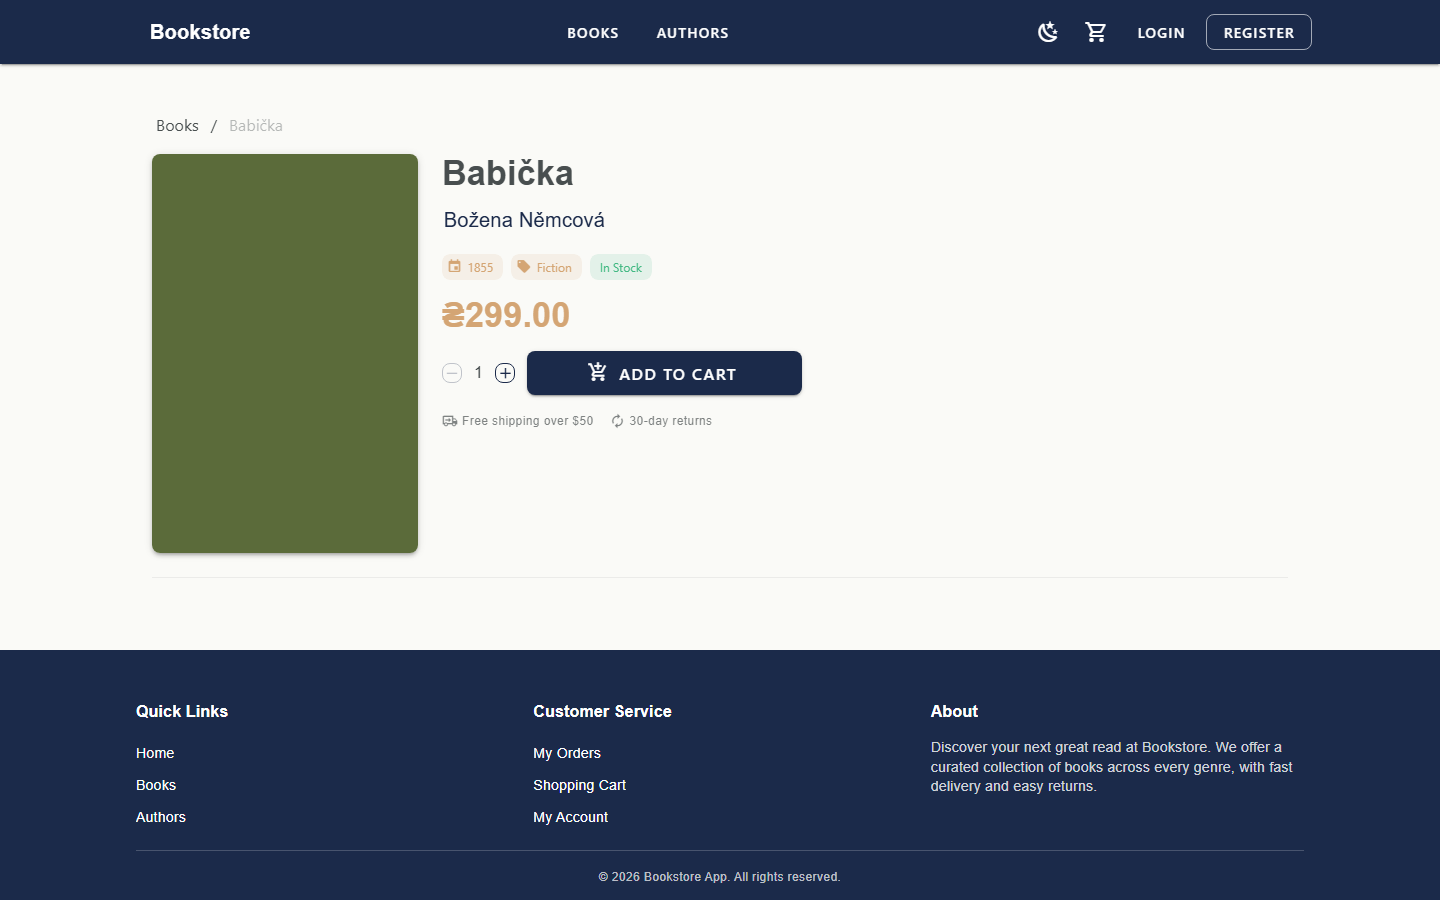
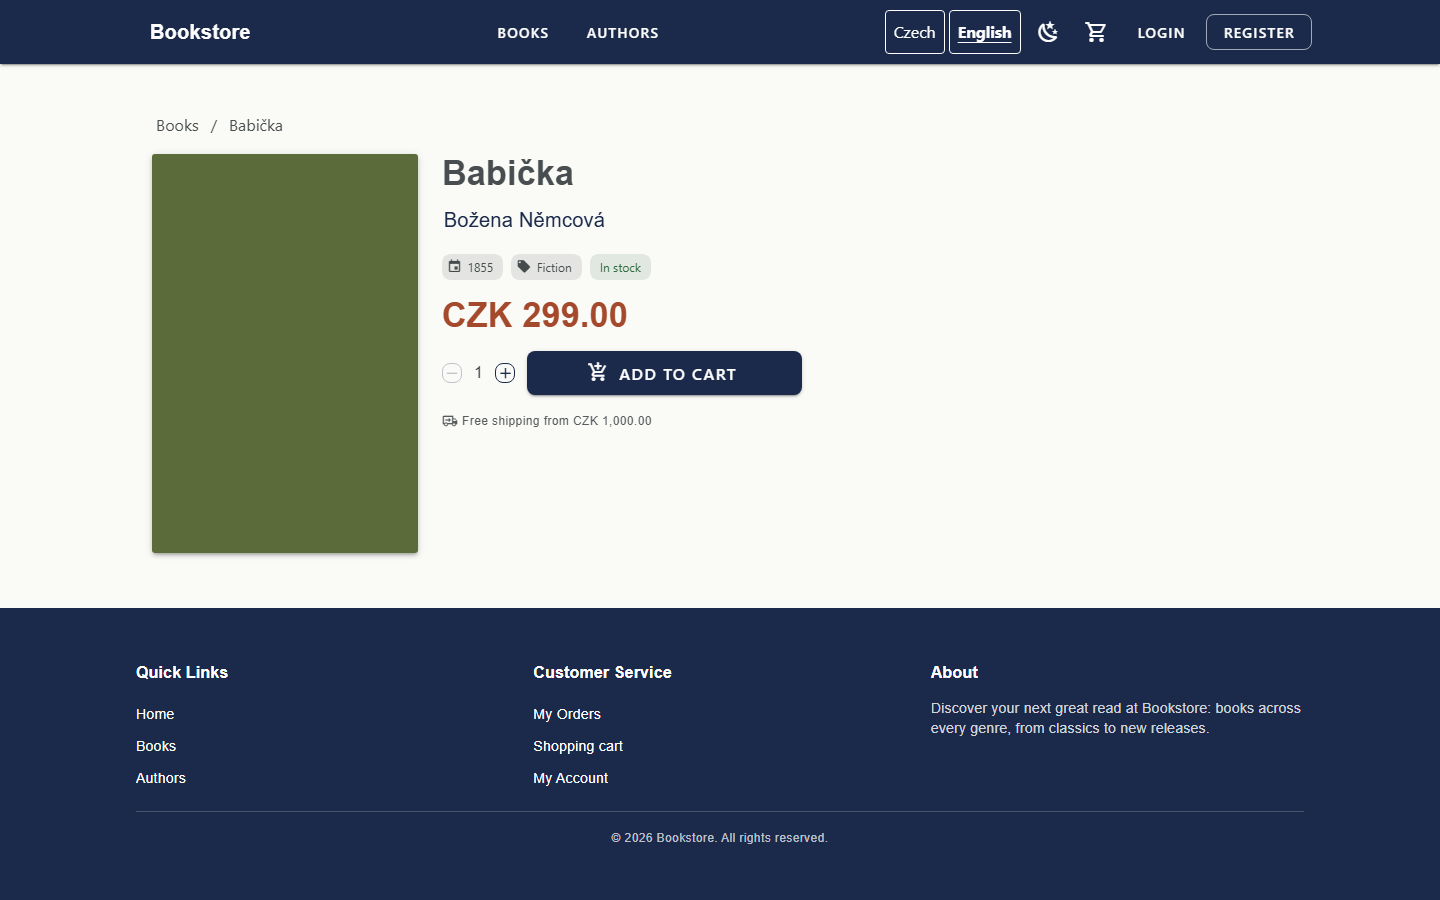
docs: describe the catalogue's address, the book read contract and the tokens

diff --git a/docs/architecture.md b/docs/architecture.md
@@ -97,27 +97,34 @@ Six Mongoose models live in `backend/models/`. All but `Counter` have `createdAt
 
 How the catalogue page gets its books, from the browser to MongoDB and back:
 
-1. On `/books` the router renders `BooksView`. Its `BookList` component (`components/features/books`) calls
-   `loadBooks()` of the books store when it mounts.
-2. The store calls `booksApi.fetchAll()` with `page` and `limit`, plus the search text and filters when they are set.
+1. On `/books` the router renders `BooksView`. Its `BookList` component (`components/features/books`) reads the page,
+   the search and the category from the address (`router/catalogQuery.js`) and asks the books store for that page
+   whenever the address changes. Paging and choosing a category change the address first, so Back, a reload and a
+   shared link show the same list.
+2. The store calls `booksApi.fetchAll()` with `page`, `limit` (12) and the search and the category when they are set.
+   It keeps only the answer of its latest request, so a quick Back or typing never shows an older list.
 3. `booksApi` sends the request through the shared Axios instance in `services/api/baseApi.js`. Its base URL is
-   `/api/v1`, so the browser asks the origin that served the page for `GET /api/v1/books?page=1&limit=12`.
+   `/api/v1`, so the browser asks the origin that served the page for `GET /api/v1/books?page=2&limit=12`.
 4. The Vite server forwards `/api` to the API at `API_PROXY_TARGET` (default `http://localhost:3000`): the dev server
    on port 8080 in development, the preview server on port 4173 in a preview.
 5. Express runs the global middleware (Helmet, CORS, body parsing, request logging). The `/api/v1` router hands the
-   request to `routes/books.js`, where `GET /` is public and calls `bookController.getBooks` through `asyncHandler`.
-6. The controller passes the parsed query (`req.query`) to `bookService.getBooks()`.
-7. The service checks `page` and `limit` (at most 100) and builds the filter. It runs two queries at once: `Book.find()`
-   with the author's first and last name populated, newest first, skipped and limited to the requested page, and
-   `Book.countDocuments()` for the total.
+   request to `routes/books.js`, where `GET /` is public. `validate({ query: listBooksQuery })` checks the query first:
+   an unknown parameter, a page below 1, a limit above 100, a sort outside the list or a value sent twice or as an
+   object answers 400 `VALIDATION_FAILED`.
+6. The controller passes the parsed query (`req.valid.query`) to `bookService.getBooks()`.
+7. The service builds the filter: the category and the author match as whole values, the search matches part of the
+   title or the description as plain text. It runs two queries at once: `Book.find()` with the author's first and last
+   name populated, newest first with `_id` breaking ties (so no book shows on two pages), skipped and limited to the
+   requested page, and `Book.countDocuments()` for the total.
 8. Mongoose sends both queries to MongoDB and returns the documents as plain objects (`lean()`).
-9. The controller answers 200 with `{ success: true, data, pagination }`: `data` is the list of books, `pagination`
-   holds `page`, `limit`, `total`, `pages`, `hasNext` and `hasPrev`. The request logger prints
+9. `services/bookView.js` turns each document into the book view (`id`, no `_id` or `__v`, the author as
+   `{ id, firstName, lastName }`), and the controller answers 200 with `{ success: true, data, pagination }`:
+   `pagination` holds `page`, `limit`, `total` and `pages`. The request logger prints
    `GET /api/v1/books 200 <duration>ms`.
-10. The store keeps the books, and `BookList` renders them as cards.
+10. The store keeps the books and the server's pagination, and `BookList` renders the cards, the count and the pager.
 
-If any step throws, for example because `limit` is above 100, `asyncHandler` passes the error to the error handler,
-which answers `{ success: false, error: { code, message } }` with the matching status.
+If the query is invalid or any step throws, the error handler answers `{ success: false, error: { code, message } }`
+with the matching status, and the catalogue shows the translated message with Try again.
 
 ## Frontend
 
@@ -131,14 +138,22 @@ the three plugins.
   the user to the login page, the home page or the "access denied" page as the policy requires. The login page gets
   the way back in `?redirect`; after signing in, `redirect.js` opens it only if it is a path to a page of this app,
   and opens it in the current language, otherwise the home page. The API checks every protected request on its own.
+  `catalogQuery.js` reads the catalogue's page, search and category from the address and writes them back in one
+  canonical form: no first page, no empty values, an invalid page replaced.
 - **State** (`src/stores/`). One Pinia store per area: `auth`, `authors`, `books`, `cart`, `checkout`, `orders`,
-  `shopConfig` and `users`. `shopConfig` loads the shop settings of `GET /config/public` once; the home page and the
-  book page state shipping and VAT only from them. Each calls its API module and tracks its loading and error state. The cart store holds the server's
-  lines and quote and runs its changes one after another; a guest cart keeps only book ids and quantities in
-  `localStorage`, is priced by `POST /cart/quote` and is merged into the account cart on sign-in. The checkout store
-  holds the idempotency key of the current checkout and keeps it for every retry of the same order.
+  `shopConfig` and `users`. The stores call their API modules and track their loading and error state.
+  - `books` holds one page of books with the server's pagination. Search and filters are not kept there: the
+    catalogue reads them from its address, and the home page loads its latest books into a list of its own.
+  - `shopConfig` loads the shop settings of `GET /config/public` once; the home page and the book page state shipping
+    and VAT only from them.
+  - The cart store holds the server's lines and quote and runs its changes one after another; a guest cart keeps only
+    book ids and quantities in `localStorage`, is priced by `POST /cart/quote` and is merged into the account cart on
+    sign-in.
+  - The checkout store holds the idempotency key of the current checkout and keeps it for every retry of the same
+    order.
 - **API client** (`src/services/api/`). One module per resource (`booksApi.js`, `authorsApi.js`, `cartApi.js`,
-  `orderApi.js`, `usersApi.js`, `rolesApi.js`, `authService.js`), all on the Axios instance in `baseApi.js`. It sets
+  `orderApi.js`, `configApi.js`, `usersApi.js`, `rolesApi.js`, `authService.js`), all on the Axios instance in
+  `baseApi.js`. It sets
   the base URL and a 15-second timeout, adds the token from `localStorage` to protected requests, turns failures into
   `Error` objects that carry the status and the `code`, `fields` and `details` of the error envelope, and ends the
   session after a 401 to a request that carried the token. A 401 without a token, such as a wrong password, ends
@@ -149,10 +164,15 @@ the three plugins.
   account is then replaced by the login page in the same language: after a 401 or an expired token with the way back
   in `?redirect`, after signing out without it, so the next person on the device does not land on the previous
   user's page. A public page stays open for the visitor as a guest.
+- **Design tokens** (`src/design/`). `tokens.js` holds the colours that text contrast and the focus ring depend on;
+  `config/vuetify.js` builds the theme from them, and `tokens.spec.js` checks every pair against the WCAG 2.x
+  thresholds. `focus.css` draws a two-tone focus ring on links and buttons, with the colours swapped on navy surfaces
+  and in the dark theme.
 - **Components and views.** `src/components/features/` holds the components of each area: `admin`, `auth`, `authors`,
-  `books`, `cart`, `orders`. Shared pieces live in `components/ui`, `components/layout` and
-  `components/notifications`. `src/views/` holds the pages that the router loads, grouped as `public`, `auth`,
-  `orders`, `admin` and `errors`.
+  `books`, `cart`, `orders`. In `books`, `BookCard` links its title over the whole card and names its add-to-cart
+  button after the book, and `BookCover` keeps a 2:3 box with the title and the author when there is no image.
+  Shared pieces live in `components/ui`, `components/layout` and `components/notifications`. `src/views/` holds the
+  pages that the router loads, grouped as `public`, `auth`, `orders`, `admin` and `errors`.
 
 ## Configuration and environments
 
@@ -197,9 +217,12 @@ a production web server has to forward `/api` to the API; the other option is to
 - **Characterization tests** (`tests/integration/characterization.test.js`) record the API's correct behavior before
   the refactoring: health, registration and login, `/auth/me`, the book list and lookup, admin-only book creation.
   They must not pin known defects.
-- **Frontend.** Vitest on happy-dom runs `src/**/*.spec.js`: the API modules, the stores, the utilities and the
-  components and views of the cart, checkout and orders, mounted with the real router, i18n and Vuetify.
-- **End-to-end.** Playwright in Chromium runs `frontend/e2e/`: the catalogue smoke test, the Czech and English flows
+- **Frontend.** Vitest on happy-dom runs `src/**/*.spec.js`: the API modules, the stores, the utilities, the design
+  tokens, the catalogue's address, and the components and views of the catalogue, the book page, the home page, the
+  sign-in and registration forms, the cart, checkout and orders, mounted with the real router, i18n and Vuetify.
+- **End-to-end.** Playwright in Chromium runs `frontend/e2e/`: the catalogue smoke test, paging, search and categories
+  in the address with Back, reload and a language switch, the keyboard path to a book, contrast, the focus ring,
+  reflow at 320 px and target sizes on the catalogue pages, layout shift while books load, the Czech and English flows
   with accessibility checks, the server cart, checkout with retries, price changes and order cancellation, the whole
   purchase journey from a guest cart to a cancelled order and sign-out in both languages, expired sessions, and the
   shop terms against `GET /config/public`. Shared helpers live in `e2e/support.js`.

diff --git a/README.md b/README.md
@@ -8,6 +8,9 @@ that shows how its author builds and maintains a full-stack application with tes
 The foundation is done: automated tests, CI, configuration checked at startup, a seed command and end-to-end tests.
 The purchase path works from the catalogue to the order:
 
+- The catalogue lists every book, page by page. The page, the search and the category are in the address, so Back,
+  a reload and a shared link show the same list. A book card opens from the keyboard, its add-to-cart button is named
+  after the book, and a book without a cover shows its title and author in the cover's place.
 - The cart lives on the server. A guest cart is priced by the server and joins the account cart on sign-in.
 - Checkout validates the delivery address, orders at the server's total and places an order at most once, also when
   the request is retried.
@@ -21,13 +24,11 @@ Known limitations:
 
 - There is no online payment: a new order waits for payment.
 - The admin panel cannot be opened by signing in: the API gives users no permissions, and the panel requires one.
-- The catalogue, author pages, the profile and the admin panel are still in English only. The Czech texts are a
-  draft.
-- The catalogue shows only the first 12 books, with no pager and a counter that reads "Showing 12 of 12 books".
+- Author pages, the profile and the admin panel are still in English only. The Czech texts are a draft.
+- Book categories are a fixed list, and their names are not translated yet.
 - Development tools (nodemon, ESLint 7) still depend on packages with known vulnerabilities and no fix within their
   current major versions; [docs/dependency-audit.md](docs/dependency-audit.md) lists them with review dates.
 - The seed data is for checking the layout; there is no real catalogue yet.
-- Books without a cover leave an empty area in the catalogue and on the book page: the placeholder image is missing.
 
 ## Screenshots
 

diff --git a/backend/README.md b/backend/README.md
@@ -79,6 +79,18 @@ role is `admin`.
 | PATCH  | `/books/:id/stock`        | Admin  | Change only the stock status |
 | DELETE | `/books/:id`              | Admin  | Delete a book                |
 
+`GET /books` takes `page` (from 1), `limit` (1–100, default 20), `category`, `authorId`, `inStock` (`true` or
+`false`), `search` and `sortBy` (`-createdAt` by default, also `createdAt`, `title`, `price`, `publicationYear` and
+their `-` forms). Any other parameter, or a value sent twice or as an object, answers 400. The category matches as a
+whole value, case included (`Fiction` does not find `Science Fiction`); the search matches part of the title or the
+description as plain text. Equal sort values are ordered by id, so pages never overlap. The answer is
+`{ success, data, pagination: { page, limit, total, pages } }`.
+
+Every book read answers the same book view: `id`, `title`, `author` (`{ id, firstName, lastName }`, with `bio` on
+`GET /books/:id`; `null` if the author no longer exists), `publicationYear`, `category`, `description`, `price` (CZK,
+in crowns), `image`, `inStock`, `createdAt` and `updatedAt`. `/books/category/:category` lists books in stock of
+exactly that category.
+
 ### Authors (`/authors`)
 
 | Method | Path                         | Access | Description                  |
@@ -91,6 +103,9 @@ role is `admin`.
 | POST   | `/authors`                   | Admin  | Create an author             |
 | PUT    | `/authors/:id`               | Admin  | Update an author             |
 | DELETE | `/authors/:id`               | Admin  | Delete an author             |
+
+`GET /authors?country=` and `/authors/country/:country` match the country as a whole value, case included. Both
+lists check their query like `GET /books`: an unknown parameter or a sort outside the list answers 400.
 
 ### Cart (`/cart`, every route except `/cart/quote` needs a token)
 
